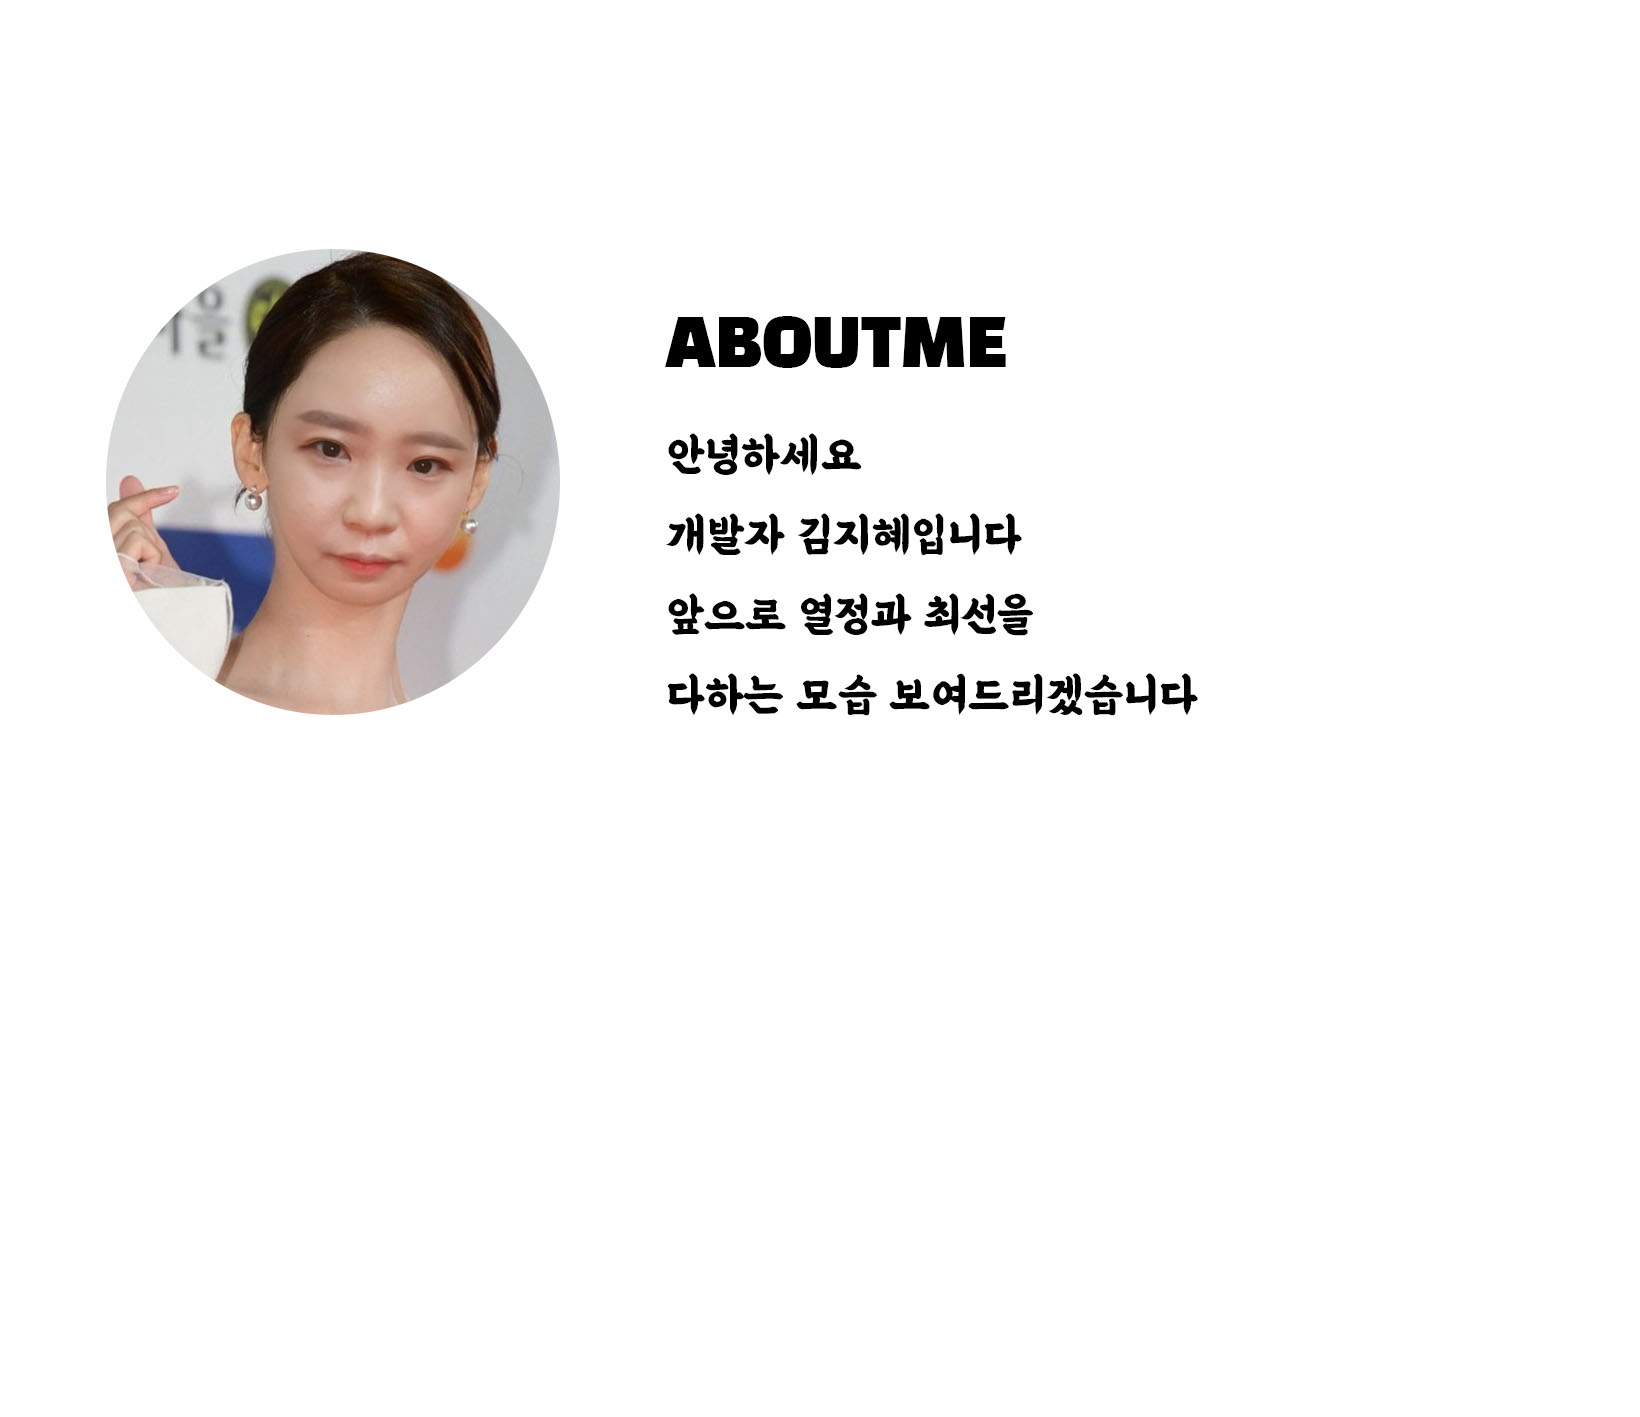
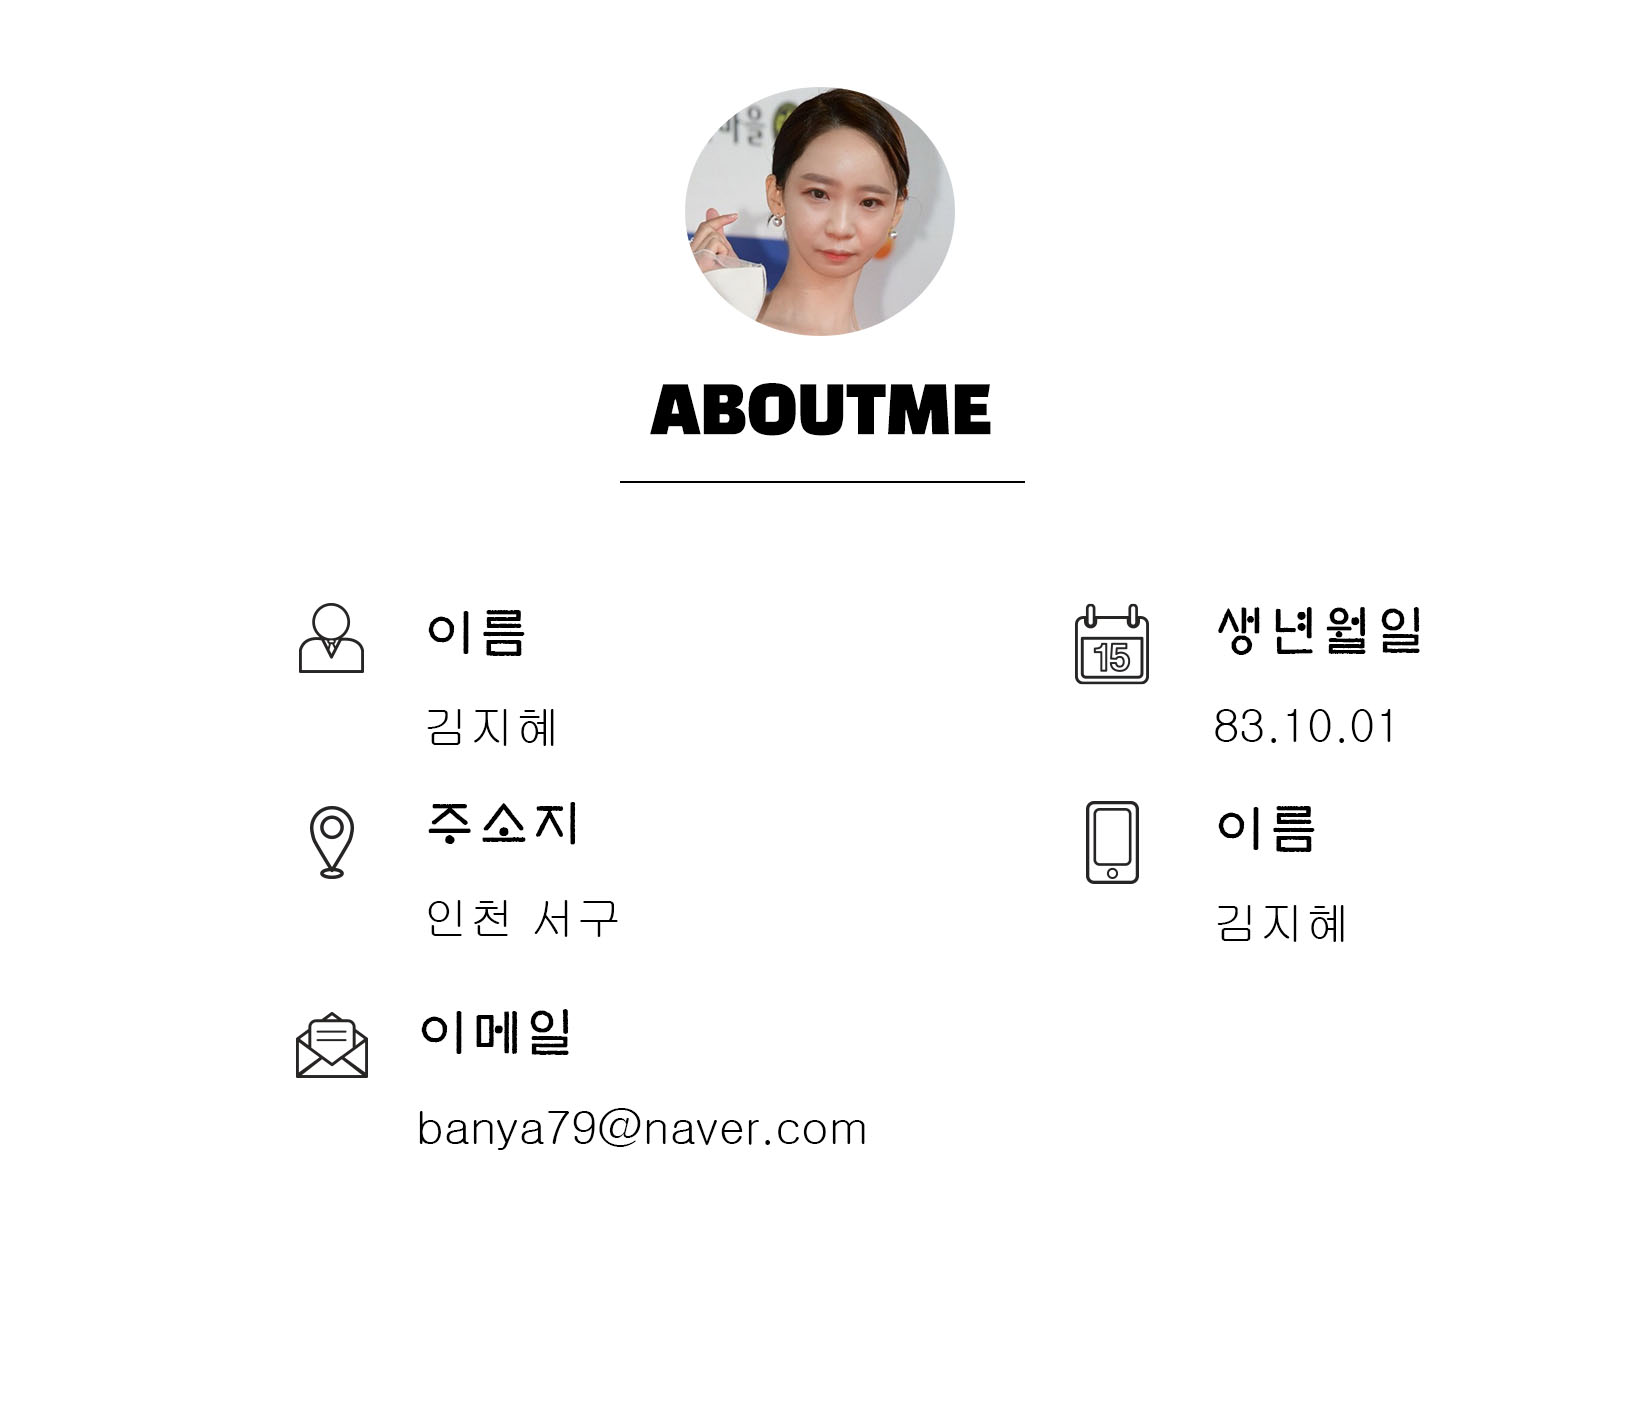
second commit

diff --git a/index.css b/index.css
@@ -15,6 +15,7 @@ ol, ul {
 #intro {
     width: 100%;
     height: 80px;
+    margin-bottom: 50px;
 }
 .logo-nav {
     height: 100px;
@@ -60,28 +61,101 @@ ol, ul {
     font-size: 20px;
     font-weight: bold;
 }
-#main article {
-    width: 100%;
-    height: 1417px;
-    display: flex;
-    flex-direction: column; 
-    align-items: center; 
-    padding-bottom: 20px;
-}
+
 #main article a {
     display: block;
     width: 100%;
-    height: 100%;
+    height: 100px;
     background-color: white;
+
 }
 #main article.one {
-    background-color:#ffffff;
+    background-color:#c74343;
+    
+    display: flex;
+    justify-content: center;
+    align-items: center;
+    height: 10px;
+    margin-top: 100px;
+    position: relative; /* 추가된 부분 */
+    z-index: 1; /* 추가된 부분 */
 }
+#main article.one a {
+    display: flex;
+    justify-content: center;
+    align-items: center;
+    width: 100%; 
+    height: 100px; 
+   
+    position: relative; /* 추가된 부분 */
+    z-index: 2; /* 추가된 부분, 1보다 큰 값으로 설정 */
+ 
+
+}
+#main article.one img {
+   
+    max-width: 100%; 
+    max-height: 100%; 
+}
+.main_text0 {
+    margin-top: 100px; /* 조절 가능한 간격 */
+    text-align: center;
+    position: relative;
+}
+
 #main {
     height: auto; 
-    margin-bottom: 20px;
+    margin-bottom: 100px;
+    margin-top: 50px;
+
 }
+.main_text0 h1 {
+    text-align: center; /* 텍스트 가운데 정렬 (선택 사항) */
+}
+
+.main_text0 h1:after {
+    content: "";
+    position: absolute;
+    bottom: 0;
+    left: 50%;
+    transform: translateX(-50%);
+    width: 200px;
+    height: 2px; /* 밑줄의 두께 */
+    background-color: #808080; /* 밑줄 색상 (선택 사항) */
+    box-shadow: 0 5px 10px rgba(0, 0, 0, 0.3); /* 아래쪽 그림자 효과 */
+}
+
+.icons{
+    display: flex;
+    width:1280px;
+    height: 100%;
+    /*background: orange; */
+    margin:auto;
+}
+
+  .icons > li {
+    flex: 1;
+    background: white;
+    margin-top:49px;
+    height:400px;
+    text-align: center;
+  }
+  .icons > li > .icon_img{
+    margin-top:18px;
+  }
+  
+  .icons > li:not(:last-child){
+    margin-right: 20px;
+  }
+  
+  .icons .contents2 {
+    width:280px;
+    margin:auto;
+    letter-spacing: -1px;
+  }
 footer {
+    position: fixed;
+    bottom: 0;
     width: 100%;
     height: 120px;
     background-color: black;

diff --git a/index.html b/index.html
@@ -9,7 +9,7 @@
 <body>
     <div class="logo-nav">
         <h1 class="logo">
-            <a href="#"><img src="logo2.jpg" width="100" height="50" alt="Logo"></a>
+            <a href="#"><img src="imgs/logo2.jpg" width="100" height="50" alt="Logo"></a>
         </h1>
     </div>
 
@@ -28,9 +28,62 @@
     <main role="main" id="main">
             <article class="one">
                 <a href="#">
-                    <img src="어바웃미 복사.jpg" alt="나의소개">
+                    <img src="imgs/지혜사진.jpg" alt="내소개">
                 </a>
             </article>
+            <div class="main_text0">
+                <h1>ABOUT ME</h1>
+            </div>
+
+        </div>
+        
+        <ul class="icons">
+          <li>
+            <div class="icon_img">
+              <img src="imgs/이름.jpg">
+            </div>
+            <div class="contents1_bold">이름</div>
+            <div class="contents2">
+                김지혜
+            </div>
+            
+          </li>
+
+          <li>
+            <div class="icon_img">
+              <img src="imgs/생년월일.jpg">
+            </div>
+            <div class="contents1_bold">생년월일</div>
+            <div class="contents2">
+                83.10.01
+            </div>
+            
+          </li>
+
+          <li>
+            <div class="icon_img">
+              <img src="imgs/주소지.jpg">
+            </div>
+            <div class="contents1_bold">주소</div>
+            <div class="contents2">
+                인천 서구
+            </div>
+           
+          </li>
+          <li>
+            <div class="icon_img">
+              <img src="imgs/메일.jpg">
+            </div>
+            <div class="contents1_bold">메일</div>
+            <div class="contents2">
+                banya79@naver.com
+            </div>
+           
+          </li>
+        </ul>
+      </div>
+
+
     </main>
     
 
@@ -40,4 +93,4 @@
         </div>
     </footer>
 </body>
-</html>
+</html> 
